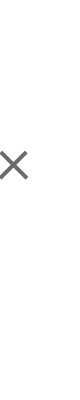
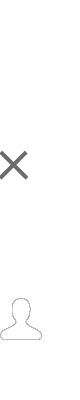
feature: 模拟数据，优化列表页 搜索页 信息页UI

diff --git a/web-sdk-test/integrate-demo/css/main.css b/web-sdk-test/integrate-demo/css/main.css
@@ -40,7 +40,7 @@ html,body{
     width: 1.16rem;
     height: 1.16rem;
     background-color: transparent;
-    background-image: url(../images/icons.png);
+    background-image: url(../images/icons.png?11);
     background-size: 1.2rem auto;
     background-repeat: no-repeat;
     background-position: 0.35rem 0.35rem;
@@ -64,20 +64,46 @@ html,body{
     background-position: 0.35rem -0.8rem
 }
 .icon-add{
-    background-position: 0.35rem -3.02rem
+    background-position: 0.35rem -3.02rem;
+    margin-right: 0.1rem;
+}
+.public-search-btn{
+    display: inline-block;
+    width: 1.4rem;
+    height: 0.7rem;
+    font-size: 0.4rem;
+    color: #fff;
+    border: 1px solid #179e16;
+    border-radius: 3px;
+    background-color: #1aad19;
+
 }
 /* 公众号列表页 */
 .public-list-content{
     margin-top: 1.16rem;
     overflow-y: auto;
 }
-
+.public-list-item{
+    display: flex;
+    align-items: center;
+    padding: 0.3rem;
+    font-size: 0.4rem;
+    border-top: 1px solid #dfdfdf;
+}
 .public-list-item.item-without{
     text-align: center;
     background: none;
     margin-top: 2rem;
     font-size: 0.42rem;
     border: 0;
+}
+.public-list-item .rong-avatar{
+    border-radius: 0;
+    border: 0;
+}
+.rong-item-main{
+    overflow: hidden;
+    width: 100%;
 }
 .public-letter-title{
     width: 100%;
@@ -107,11 +133,28 @@ html,body{
 .rong-avatar img{
     width: 100%;
 }
-.rong-conversation-name{
+.rong-conversation-attr{
     margin-left: 0.5rem;
+    display: flex;
+    justify-content: space-between;
+}
+.rong-conversation-name{
+    color: #363636;
+    font-size: 0.4rem;
+}
+.rong-conversation-time{
+    color: #bbbbbb;
+    font-size: 0.25rem;
 }
 .rong-conversation-message{
     margin-left: 0.5rem;
+    overflow: hidden;
+    white-space: nowrap;
+    text-overflow:ellipsis;
+    padding-right: 1.5rem;
+    color: #989898;
+    font-size: 0.35rem;
+    margin-top: 0.05rem;
 }
 /*
 .public-item-content:nth-child(n+1) {
@@ -158,9 +201,21 @@ html,body{
     padding: 0.3rem;
     font-size: 0.4rem;
     border-top:1px solid #dfdfdf;
+    overflow: hidden;
 }
 .public-search-item .rong-avatar {
     border: 0;
+}
+
+.public-search-item .rong-conversation-message {
+    padding-right: 0;
+    display: -webkit-box;
+    overflow: hidden;
+    white-space:normal;
+    text-overflow: ellipsis;
+    word-break: break-all;
+    -webkit-box-orient: vertical;
+    -webkit-line-clamp: 2;
 }
 
 /* 公众号信息页面 */
@@ -190,9 +245,8 @@ html,body{
 
 .public-info-intro{
     display: flex;
-    align-items: center;
     background-color: #fff;
-    padding: 0.2rem 0.4rem;
+    padding: 0.4rem 0.4rem;
 }
 .public-info-intro .title{
     font-size: 0.45rem;
@@ -200,9 +254,7 @@ html,body{
     white-space: nowrap;
 }
 .public-introduction{
-    margin-top: 0.3rem;
-    margin-bottom: 0.3rem;
-    font-size: 0.36rem;
+    font-size: 0.4rem;
     margin-left: 0.4rem;
     color: #999999;
 }
@@ -227,6 +279,11 @@ html,body{
 }
 
 /* 公众号消息页面 */
+.public-info-btn{
+    font-size: 0;
+    border: 0;
+    background-position: 0.25rem -4.2rem;
+}
 .chat-content{
     position: absolute;
     z-index: 1;

diff --git a/web-sdk-test/integrate-demo/public/public-search.html b/web-sdk-test/integrate-demo/public/public-search.html
@@ -3,20 +3,21 @@
     <header class="header">
         <i class="icons icon-return" @touchend="goPublicList"></i>
         <div class="public-search-wrap">
-            <button type="button" class="icons icon-search">搜索公众号</button>
+            <span class="icons icon-search">搜索公众号</span>
             <input type="text" placeholder="搜索公众号" class="public-search-field" v-model="stat.searchVal">
+            <button v-if="stat.searchVal !== ''" type="button" class="public-search-btn" @touchend="publicSearch">搜索</button>
         </div>
     </header>
 
     <div class="public-search-result">
-        <h3 class="title">公众号</h3>
+        <h3 class="title" v-if="stat.searchList.length !== 0">公众号</h3>
         <ul class="public-search-list">
             <li v-if="stat.searchList.length !== 0" class="public-search-item" v-for="item in stat.searchList" @touchend="goPublicInfo(item)">
                 <div class="rong-conversation-aside">
-                    <div class="rong-avatar"><img :src="item.portraitUri" class="rong-avatar-bd">  <!----> </div>  <!----></div>
+                    <div class="rong-avatar"><img :src="item.portraitUri" class="rong-avatar-bd"></div></div>
                 <div class="rong-item-main">
-                    <div class="rong-conversation-name"><em>{{item.name}}</em>  <!----></div>
-                    <div class="rong-conversation-message"><!----> <!----> <!----> <span>{{item.introduction}}</span></div>
+                    <div class="rong-conversation-attr"><em class="rong-conversation-name">{{item.name}}</em></div>
+                    <div class="rong-conversation-message">{{item.introduction}}</div>
                 </div>
             </li>
             <li v-show="!stat.searchResult" class="public-search-item">搜索不到公众号</li>

diff --git a/web-sdk-test/integrate-demo/public/public-list.html b/web-sdk-test/integrate-demo/public/public-list.html
@@ -1,18 +1,23 @@
 <div class="public-list">
     <header class="header"><i class="icons icon-return"></i><h2 class="title">公众号</h2>
-        <button type="button" class="icons icon-search">搜索</button>
+        <!--<button type="button" class="icons icon-search">搜索</button>-->
         <button type="button" class="public-add-btn icons icon-add" @touchend="publicAdd">添加</button>
     </header>
     <ul class="public-list-content">
         <li v-if="stat.publicList.length == 0" class="public-list-item item-without">暂无订阅号消息</li>
-        <li v-else class="public-list-item" v-for="item in stat.publicList">
-            <div class="public-letter-title">B</div>
-            <div class="public-letter-content">
-                <div class="public-item-content">
-                    <div class="rong-avatar"><img :src="item.portraitUri" class="rong-avatar-bd"></div>
-                    <div class="rong-conversation-name"><em>赵福运</em>  <!----></div>
-                </div>
+
+
+        <li v-else class="public-list-item" v-for="item in stat.publicList" @touchend="goPublicChat( item )">
+            <div class="rong-conversation-aside">
+                <div class="rong-avatar"><img :src="item.portraitUri" class="rong-avatar-bd"></div>
+            </div>
+            <div class="rong-item-main">
+
+                <div class="rong-conversation-attr"><em class="rong-conversation-name">{{item.name}}</em><span class="rong-conversation-time">{{item.time}}</span></div>
+                <div class="rong-conversation-message">{{item.latestMessage}}</div>
             </div>
         </li>
+
+
     </ul>
 </div>

diff --git a/web-sdk-test/integrate-demo/js/public-search.js b/web-sdk-test/integrate-demo/js/public-search.js
@@ -8,6 +8,13 @@ function getPublicSearch(_options) {
         methods: {
             publicSearch:function () {
 
+                var that=this;
+                $.getJSON('mockData.json',function (data) {
+                    console.log(data);
+                    that.stat.searchList=data.searchList;
+                    return false;
+                });
+                return false;
                 console.log(this.stat);
                 var that=this;
                 var keywords=this.stat.searchVal;
@@ -37,12 +44,7 @@ function getPublicSearch(_options) {
             }
         },
         mounted:function () {
-            var that=this;
-            $.getJSON('mockData.json',function (data) {
-                console.log(data);
-                that.stat.searchList=data.searchList;
-                return false;
-            });
+
         }
     };
     return common.getComponent(options);

diff --git a/web-sdk-test/integrate-demo/public.html b/web-sdk-test/integrate-demo/public.html
@@ -45,8 +45,8 @@
             el: '#publicPage',
             data: {
                 stat: {
-                    currentView: 'publicSearch',
-                    publicList:['公众号'],
+                    currentView: 'publicList',
+                    publicList:[],
                     searchVal:'',
                     searchList:[],
                     searchResult:true,

diff --git a/web-sdk-test/integrate-demo/js/public-list.js b/web-sdk-test/integrate-demo/js/public-list.js
@@ -28,6 +28,10 @@ function getPublicList(_options) {
             },
             publicAdd:function(){
                 this.stat.currentView="publicSearch";
+            },
+            goPublicChat:function(item){
+                this.stat.currentView = 'publicChat';
+                this.stat.currentPublic = item;
             }
         },
         mounted:function () {

diff --git a/web-sdk-test/integrate-demo/public/public-chat.html b/web-sdk-test/integrate-demo/public/public-chat.html
@@ -2,6 +2,7 @@
     <header class="header">
         <i class="icons icon-return" @touchend="goPublicList"></i>
         <h2 class="title">{{stat.currentPublic.name}}</h2>
+        <button type="button" class="icons public-info-btn" @touchend="goPublicInfo">信息</button>
     </header>
 
     <div class="chat-content">
